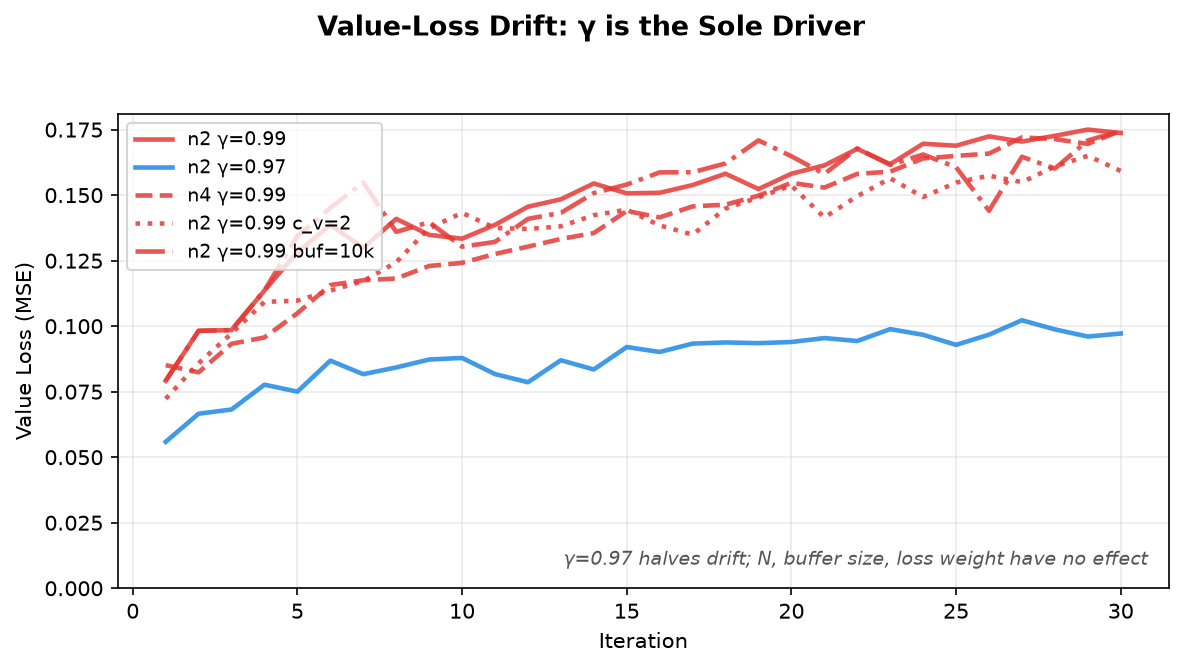
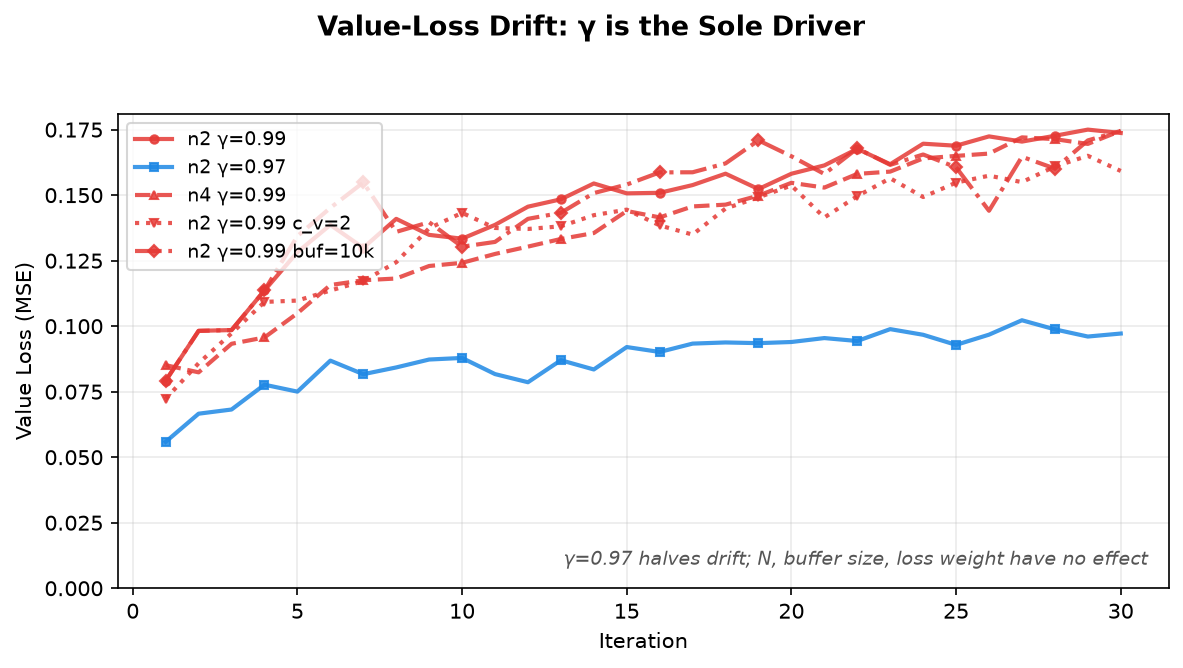
fix(figures): correct held-out bar data source and empty seat panel
The held-out bar chart disagreed with the report's authority table
(Table 22): _load_held_out merged eval files newest-last and returned
the first match, so the stale 20-game sweep and a file marked
"complete": false outranked the two complete finals. v4 read 100%/no
minimax bar instead of 97.5%/8.3%, v9 read 90% instead of 91.2%.
Load the complete finals first and drop incomplete files outright.

Missing measurements were also plotted as zero-height bars, making a
true 0% and an absent result identical; they are now labelled and every
bar carries its rate, with K and sample size on each group since those
differ across the registry.

plot_seat_trajectory's N=2 panel was empty because n2_9x9_v4 never
recorded greedy_by_seat. Use n2_9x9_v9 — the warm-started run the
erosion argument is about — and annotate runs that have no per-seat
data instead of drawing a blank axis.

Also: size chart canvases so tick labels survive the scale to
0.92\textwidth in the report, label the pure-racer ceiling rules,
fit diagram canvases to their content and route same-column arrows
around the labels, give the four overlapping gamma arms distinct
markers, and generate gamma-drift-ablation.png into the attachments
directory so the report's copy cannot drift from the generator.

diff --git a/scripts/plot_all_figures.py b/scripts/plot_all_figures.py
@@ -290,11 +290,11 @@ def plot_comparison(n4_history: list[dict], metrics_2p: list[dict] | None,
 
 # ── γ-Drift Ablation Overlay ──────────────────────────────────────────────
 DRIFT_RUNS = {
-    "n2 γ=0.99":        ("runs/n2_5x5_v1/meta.json",       {"color": "#E53935", "ls": "-"}),
-    "n2 γ=0.97":        ("runs/n2_5x5_g097_v1/meta.json",  {"color": "#1E88E5", "ls": "-"}),
-    "n4 γ=0.99":        ("runs/n4_5x5_v3/meta.json",       {"color": "#E53935", "ls": "--"}),
-    "n2 γ=0.99 c_v=2":  ("runs/n2_5x5_cv2_v1/meta.json",  {"color": "#E53935", "ls": ":"}),
-    "n2 γ=0.99 buf=10k":("runs/n2_5x5_buf10k_v1/meta.json",{"color": "#E53935", "ls": "-."}),
+    "n2 γ=0.99":        ("runs/n2_5x5_v1/meta.json",       {"color": "#E53935", "ls": "-",  "marker": "o"}),
+    "n2 γ=0.97":        ("runs/n2_5x5_g097_v1/meta.json",  {"color": "#1E88E5", "ls": "-",  "marker": "s"}),
+    "n4 γ=0.99":        ("runs/n4_5x5_v3/meta.json",       {"color": "#E53935", "ls": "--", "marker": "^"}),
+    "n2 γ=0.99 c_v=2":  ("runs/n2_5x5_cv2_v1/meta.json",  {"color": "#E53935", "ls": ":",  "marker": "v"}),
+    "n2 γ=0.99 buf=10k":("runs/n2_5x5_buf10k_v1/meta.json",{"color": "#E53935", "ls": "-.", "marker": "D"}),
 }
 
 
@@ -312,7 +312,8 @@ def plot_gamma_drift(output_path: str | Path, max_iters: int = 30) -> None:
         if len(iters) > max_iters:
             iters, loss_v = iters[:max_iters], loss_v[:max_iters]
         ax.plot(iters, loss_v, label=label, color=style["color"],
-                linestyle=style["ls"], linewidth=2.2, alpha=0.85)
+                linestyle=style["ls"], linewidth=2.0, alpha=0.85,
+                marker=style["marker"], markersize=4, markevery=3)
 
     ax.set_xlabel("Iteration")
     ax.set_ylabel("Value Loss (MSE)")
@@ -333,15 +334,19 @@ def plot_gamma_drift(output_path: str | Path, max_iters: int = 30) -> None:
 
 
 def plot_seat_trajectory(output_path: str | Path) -> None:
+    # v9/v10, not v4: per-seat greedy results were only recorded from the
+    # warm-start generation onward, and these are the runs the erosion and
+    # retention argument is about.
     runs = [
-        ("N=2 · v4", "runs/n2_9x9_v4/meta.json", 2, "#1565C0"),
-        ("N=4 · v10", "runs/n4_9x9_v10/meta.json", 4, "#D84315"),
+        ("N=2 · v9 (warm-started)", "runs/n2_9x9_v9/meta.json", 2, "#1565C0"),
+        ("N=4 · v10 (warm-started)", "runs/n4_9x9_v10/meta.json", 4, "#D84315"),
     ]
-    fig, axes = plt.subplots(1, 2, figsize=(12, 4.6), sharey=True)
-    fig.suptitle("9×9 Greedy-Racer Evaluation by Candidate Seat",
+    fig, axes = plt.subplots(1, 2, figsize=(7.8, 3.1), sharey=True)
+    fig.suptitle("9×9 greedy-racer evaluation by candidate seat",
                  fontsize=14, fontweight="bold")
     for ax, (label, path, players, color) in zip(axes, runs):
         history = load_history(path)
+        plotted = 0
         for seat in range(players):
             points = []
             for row in history:
@@ -353,46 +358,65 @@ def plot_seat_trajectory(output_path: str | Path) -> None:
                 x, y = zip(*points)
                 ax.plot(x, y, marker="o", linewidth=1.8, markersize=4,
                         label=f"seat {seat}", alpha=0.9)
+                plotted += 1
+        if not plotted:
+            ax.text(0.5, 0.5, "no per-seat evaluations recorded",
+                    transform=ax.transAxes, ha="center", va="center",
+                    fontsize=11, fontstyle="italic", color="#888")
         ceiling = 50 if players == 2 else 25
         ax.axhline(ceiling, color=color, linestyle="--", linewidth=1.2,
-                   alpha=0.8, label=f"race ceiling ({ceiling}%)")
-        ax.set_title(label)
-        ax.set_xlabel("Training iteration")
+                   alpha=0.8, label=f"pure-racer ceiling ({ceiling}%)")
+        ax.set_title(label, fontsize=11)
+        ax.set_xlabel("Training iteration", fontsize=10)
         ax.set_xlim(left=0)
-        ax.set_ylim(-3, 105)
+        ax.set_ylim(-3, 118)
+        ax.tick_params(labelsize=10)
         ax.grid(True, alpha=0.25)
-        ax.legend(fontsize=8, loc="upper right")
-    axes[0].set_ylabel("Candidate win rate vs greedy (%)")
+        # Keep the legend off the curves: N=2 lives high, N=4 lives low.
+        ax.legend(fontsize=8, ncol=2,
+                  loc="lower left" if players == 2 else "upper left")
+    axes[0].set_ylabel("Candidate win rate vs greedy (%)", fontsize=10)
     fig.text(0.5, 0.01,
-             "Markers show recorded evaluations; blank intervals were not evaluated.",
-             ha="center", fontsize=8, color="#555")
-    plt.tight_layout(rect=[0, 0.04, 1, 0.93])
+             "Markers show recorded evaluations; blank intervals were not evaluated. "
+             "Overlapping flat lines at 0% hide seats 1–3 under seat 3.",
+             ha="center", fontsize=9, color="#555")
+    plt.tight_layout(rect=[0, 0.05, 1, 0.92])
     plt.savefig(output_path, dpi=180, bbox_inches="tight")
     plt.close(fig)
     print(f"Saved: {output_path}")
 
 
 def _diagram(output_path: str | Path, title: str, columns: list) -> None:
-    fig, ax = plt.subplots(figsize=(12, 5.5))
+    # Canvas is sized to the content: a fixed tall ylim leaves dead space that
+    # the report then scales the legible text down to fill.
+    rows = max(len(column[1]) for column in columns)
+    fig, ax = plt.subplots(figsize=(12, 1.35 + 1.15 * rows))
     ax.set_xlim(0, 12)
-    ax.set_ylim(0, 6)
+    ax.set_ylim(4.8 - 1.15 * (rows - 1) - 0.6, 5.5)
     ax.axis("off")
-    ax.set_title(title, fontsize=15, fontweight="bold", pad=18)
+    ax.set_title(title, fontsize=17, fontweight="bold", pad=14)
     positions = {}
     for column in columns:
         x = column[0]
         for index, (key, text, color) in enumerate(column[1]):
             y = 4.8 - index * 1.15
-            positions[key] = (x, y)
-            ax.text(x, y, text, ha="center", va="center", fontsize=9,
+            # Half-width estimated from the widest line so arrows start at the
+            # box edge rather than inside the label.
+            positions[key] = (x, y, 0.05 * max(map(len, text.split("\n"))) + 0.1)
+            ax.text(x, y, text, ha="center", va="center", fontsize=12,
                     bbox=dict(boxstyle="round,pad=0.55", facecolor=color,
                               edgecolor="#263238", linewidth=1.1))
     for source, target in columns[-1][2]:
-        x1, y1 = positions[source]
-        x2, y2 = positions[target]
-        ax.annotate("", xy=(x2 - 0.55, y2), xytext=(x1 + 0.55, y1),
+        x1, y1, w1 = positions[source]
+        x2, y2, w2 = positions[target]
+        if abs(x1 - x2) < 0.6:      # same column: route vertically
+            start, end = (x1, y1 - 0.45), (x2, y2 + 0.45)
+        else:
+            start, end = (x1 + w1, y1), (x2 - w2, y2)
+        ax.annotate("", xy=end, xytext=start,
                     arrowprops=dict(arrowstyle="->", color="#455A64",
-                                    linewidth=1.5))
+                                    linewidth=1.5,
+                                    connectionstyle="arc3,rad=-0.15"))
     plt.tight_layout()
     plt.savefig(output_path, dpi=180, bbox_inches="tight")
     plt.close(fig)
@@ -499,6 +523,9 @@ def main() -> None:
     att = args.attachments_dir
     if att.parent.exists():
         att.mkdir(parents=True, exist_ok=True)
+        # Written here too, not hand-copied from outputs/, so the report's copy
+        # cannot drift from the generator.
+        plot_gamma_drift(att / "gamma-drift-ablation.png")
         plot_seat_trajectory(att / "seat-trajectory.png")
         plot_topology(att / "topology.png")
         plot_deployment(att / "deployment.png")

diff --git a/scripts/plot_registry_figures.py b/scripts/plot_registry_figures.py
@@ -37,10 +37,13 @@ REGISTRY_9X9 = {
 
 def plot_training_comparison(out: Path) -> None:
     """3-panel figure: policy loss, value loss, greedy win-rate for 9×9 runs."""
-    fig, axes = plt.subplots(1, 3, figsize=(16, 4.8))
-    fig.suptitle("9×9 Registry Models — Training Comparison",
+    # Kept narrow: the figure is scaled to ~0.92\textwidth in the report, so a
+    # wide canvas shrinks the tick labels below legibility.
+    fig, axes = plt.subplots(1, 3, figsize=(7.5, 2.7))
+    fig.suptitle("9×9 registry models — training comparison",
                  fontsize=14, fontweight="bold")
 
+    ceilings: dict[float, str] = {}
     for label, (path, num_players, color) in REGISTRY_9X9.items():
         if not Path(path).exists():
             continue
@@ -62,27 +65,37 @@ def plot_training_comparison(out: Path) -> None:
                          markersize=4, linewidth=1.5, label=label, alpha=0.85)
             axes[2].axhline(ceiling, color=color, linestyle="--",
                             linewidth=1, alpha=0.4)
+            ceilings[ceiling] = color
 
-    axes[0].set_title("Policy Loss (CE)")
-    axes[0].set_xlabel("Iteration")
-    axes[0].set_ylabel("Loss")
+    axes[0].set_title("Policy loss (CE)", fontsize=11)
+    axes[0].set_xlabel("Iteration", fontsize=10)
+    axes[0].set_ylabel("Loss", fontsize=10)
     axes[0].legend(fontsize=8)
     axes[0].grid(True, alpha=0.25)
 
-    axes[1].set_title("Value Loss (MSE)")
-    axes[1].set_xlabel("Iteration")
-    axes[1].set_ylabel("Loss")
+    axes[1].set_title("Value loss (MSE)", fontsize=11)
+    axes[1].set_xlabel("Iteration", fontsize=10)
+    axes[1].set_ylabel("Loss", fontsize=10)
     axes[1].legend(fontsize=8)
     axes[1].grid(True, alpha=0.25)
 
-    axes[2].set_title("Win Rate vs Greedy Racer")
-    axes[2].set_xlabel("Iteration")
-    axes[2].set_ylabel("%")
-    axes[2].set_ylim(-3, 105)
-    axes[2].legend(fontsize=8)
+    axes[2].set_title("Win rate vs greedy (in-run, $K$=0)", fontsize=11)
+    axes[2].set_xlabel("Iteration", fontsize=10)
+    axes[2].set_ylabel("%", fontsize=10)
+    axes[2].set_ylim(-3, 140)   # headroom so the legend clears the ceiling labels
+    axes[2].legend(fontsize=8, loc="upper right")
     axes[2].grid(True, alpha=0.25)
+    # The dashed rules are the pure-racer ceilings; unlabelled they read as
+    # arbitrary gridlines.
+    for ceiling, color in ceilings.items():
+        axes[2].text(0.02, ceiling + 2, f"pure-racer ceiling ({ceiling:.0f}%)",
+                     transform=axes[2].get_yaxis_transform(), ha="left",
+                     va="bottom", fontsize=7, color=color)
 
-    plt.tight_layout(rect=[0, 0, 1, 0.93])
+    for ax in axes:
+        ax.tick_params(labelsize=9)
+
+    plt.tight_layout(rect=[0, 0, 1, 0.92])
     plt.savefig(out, dpi=180, bbox_inches="tight")
     plt.close(fig)
     print(f"Saved: {out}")
@@ -100,17 +113,27 @@ HELD_OUT_MODELS = [
 
 
 def _load_held_out() -> list[dict]:
-    """Merge all eval result files."""
+    """Merge eval result files, authoritative ones first.
+
+    The final rescore files (40 games/seat, marked "complete": true) are the
+    report's number of record and must win over the earlier 10-games/seat
+    sweep; files explicitly marked incomplete are dropped entirely.
+    """
     results = []
     for path in [
-        "outputs/held_out_eval.json",
-        "outputs/final/held_out_eval.json",
         "outputs/final/n2/held_out_eval.json",
         "outputs/final/n4/held_out_eval.json",
+        "outputs/final/held_out_eval.json",
+        "outputs/held_out_eval.json",
     ]:
-        if Path(path).exists():
-            with open(path) as f:
-                results.extend(json.load(f)["results"])
+        if not Path(path).exists():
+            continue
+        with open(path) as f:
+            payload = json.load(f)
+        if payload.get("complete") is False:
+            print(f"Skipping incomplete eval file: {path}")
+            continue
+        results.extend(payload["results"])
     return results
 
 
@@ -130,17 +153,18 @@ def plot_held_out_bar(out: Path) -> None:
         return
 
     labels = []
-    greedy_rates = []
-    minimax_rates = []
+    greedy = []   # (rate|None, games)
+    minimax = []
 
     for run_sub, k, display in HELD_OUT_MODELS:
         g = _find_result(results, run_sub, k, "greedy")
         m = _find_result(results, run_sub, k, "minimax")
         if g is None and m is None:
             continue
-        labels.append(display)
-        greedy_rates.append(g["rate"] * 100 if g else 0)
-        minimax_rates.append(m["rate"] * 100 if m else 0)
+        n = (g or m).get("games")
+        labels.append(f"{display}\n$K$={k}, {n} games")
+        greedy.append(g["rate"] * 100 if g else None)
+        minimax.append(m["rate"] * 100 if m else None)
 
     if not labels:
         print("No matching held-out results for registry models")
@@ -149,32 +173,34 @@ def plot_held_out_bar(out: Path) -> None:
     x = np.arange(len(labels))
     width = 0.35
 
-    fig, ax = plt.subplots(figsize=(10, 5))
-    bars_g = ax.bar(x - width/2, greedy_rates, width, label="vs Greedy",
+    fig, ax = plt.subplots(figsize=(9.5, 4.4))
+    bars_g = ax.bar(x - width/2, [r or 0 for r in greedy], width,
+                    label="vs greedy racer (in training pool)",
                     color="#4CAF50", alpha=0.85)
-    bars_m = ax.bar(x + width/2, minimax_rates, width, label="vs Minimax (d=2)",
+    bars_m = ax.bar(x + width/2, [r or 0 for r in minimax], width,
+                    label="vs depth-2 minimax (held out)",
                     color="#FF7043", alpha=0.85)
 
-    ax.set_title("Held-Out Evaluation — Registry Models at Serving Configuration",
-                 fontsize=13, fontweight="bold")
-    ax.set_ylabel("Win Rate (%)")
+    ax.set_title("Held-out evaluation — registry models at serving configuration",
+                 fontsize=15, fontweight="bold")
+    ax.set_ylabel("Win rate (%)", fontsize=13)
     ax.set_xticks(x)
-    ax.set_xticklabels(labels, fontsize=10)
-    ax.set_ylim(0, 110)
-    ax.legend(fontsize=10)
+    ax.set_xticklabels(labels, fontsize=11)
+    ax.tick_params(axis="y", labelsize=11)
+    ax.set_ylim(0, 112)
+    ax.legend(fontsize=11)
     ax.grid(True, alpha=0.2, axis="y")
 
-    # Annotate bars
-    for bar in bars_g:
-        h = bar.get_height()
-        if h > 0:
-            ax.text(bar.get_x() + bar.get_width()/2, h + 1.5,
-                    f"{h:.0f}%", ha="center", va="bottom", fontsize=9)
-    for bar in bars_m:
-        h = bar.get_height()
-        if h > 0:
-            ax.text(bar.get_x() + bar.get_width()/2, h + 1.5,
-                    f"{h:.1f}%", ha="center", va="bottom", fontsize=9)
+    # Annotate every bar: a measured 0% and a missing measurement both draw no
+    # bar, so they have to be told apart in text.
+    for bars, rates in ((bars_g, greedy), (bars_m, minimax)):
+        for bar, rate in zip(bars, rates):
+            label = "not measured" if rate is None else f"{rate:.1f}%"
+            ax.text(bar.get_x() + bar.get_width()/2, (rate or 0) + 1.5, label,
+                    ha="center", va="bottom", fontsize=10,
+                    color="#888" if rate is None else "black",
+                    fontstyle="italic" if rate is None else "normal",
+                    rotation=90 if rate is None else 0)
 
     plt.tight_layout()
     plt.savefig(out, dpi=180, bbox_inches="tight")
